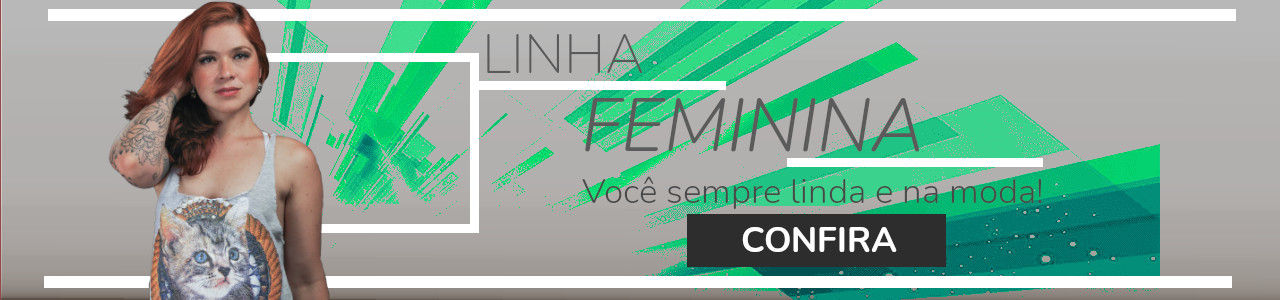
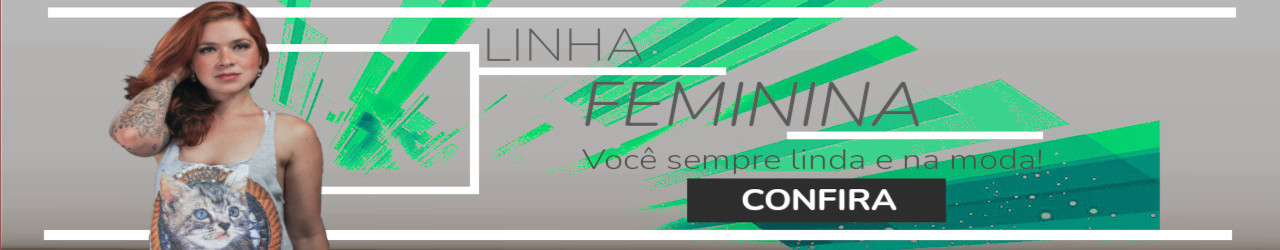
Styles, modal novo

diff --git a/index.html b/index.html
@@ -15,7 +15,7 @@
     <link rel="stylesheet" href="css/modal.css">
     <link rel="stylesheet" href="css/style.css">
 
-    <script src="javascript/javascript.js"></script>
+
 
     <title>Moda</title>
 
@@ -182,11 +182,11 @@
                         <span>NOME DA ROUPA <br>
                             VALOR: $
                         </span>
-                    </div>       
+                    </div>
                 </div>
             </div>
 
-         
+
 
             <div class="radius-model">
                 <div class="radius-modelo-0 radius-form-modelos" onclick="abrirModal('modal')"></div>
@@ -228,6 +228,7 @@
 
                 <div class="radius-modelo-4 radius-form-modelos" onclick="abrirModal('modal-4')"></div>
 
+
                 <div class="fundo_modal" id="modal-4">
                     <div class="modal">
                         <div class="radius-modelo-4 radius-modal-tamanho"></div>
@@ -235,6 +236,7 @@
                     </div>
                 </div>
             </div>
+
             <section class="block-imp-items">
                 <h2>IMPERDÍVEIS</h2>
                 <div class="block-categoria"></div>
@@ -245,6 +247,7 @@
                     <div class="imp-img-2 imp-img-form"></div>
                 </div>
             </section>
+
             <div class="sobre">
                 <div class="sobre-info">
                     <h3>Sobre</h3>
@@ -260,6 +263,7 @@
                 <div class="sobre-img"></div>
             </div>
     </main>
+
     <footer>
 
         <section class="newsletter">
@@ -301,6 +305,8 @@
     <script src="https://cdn.jsdelivr.net/npm/bootstrap@4.6.0/dist/js/bootstrap.min.js"
         integrity="sha384-+YQ4JLhjyBLPDQt//I+STsc9iw4uQqACwlvpslubQzn4u2UU2UFM80nGisd026JF"
         crossorigin="anonymous"></script>
+
+    <script src="javascript/javascript.js"></script>
 </body>
 
 </html>

diff --git a/css/style.css b/css/style.css
@@ -29,7 +29,9 @@ h2 {
 }
 
 h4 {
-    font-size: 1.3rem;
+    font-size: 1.1rem;
+    font-weight: 500;
+    line-height: 1.2;
 }
 
 .icon {
@@ -118,17 +120,23 @@ h4 {
 /* Carrousel */
 
 .carrosel-largura {
-    max-height: 500px;
+    max-height: 400px;
 }
 
 /* beneficios */
 
 .beneficios {  
-    padding-top: 1rem;
+    padding-top: 0.5rem;
     display: flex;
     justify-content: space-evenly;
     flex-wrap: wrap;
+    max-width: 1280px;
+    margin: 0 auto;
     
+}
+
+.text-bene p {
+    font-size: 0.8em;
 }
 
 .beneficios-item {
@@ -236,7 +244,7 @@ box-shadow: 5px 5px 13px 2px rgba(0,0,0,0.42);
     margin: 40px auto 10px;
     flex-wrap: wrap;
     max-width: 1280px;
-    height: 300px;
+    height: 250px;
 }
 
 /*                                      ROUPAS */
@@ -349,7 +357,7 @@ box-shadow: 5px 5px 13px 2px rgba(0,0,0,0.42);
 }
 
 .imp-img-0 {
-    background-image: url('../imagens/imperdivel/imperdeivel-0.jpeg');
+    background-image: url('../imagens/imperdivel/imperdeivel-new.jpeg');
 }
 
 .imp-img-1 {
@@ -363,7 +371,7 @@ box-shadow: 5px 5px 13px 2px rgba(0,0,0,0.42);
 /* RADIOS - MODEL */
 
 .radius-model {
-    background-color: #9e9c9c;
+    background-color: #ffffff;
     max-width: 1280px;
     margin: 0px auto;
     padding: 20px;
@@ -376,7 +384,6 @@ box-shadow: 5px 5px 13px 2px rgba(0,0,0,0.42);
 .radius-form-modelos {
     background-size: cover;
     background-position: center -3vh;   
-    border: 5px solid #ffffff;
     border-radius: 50%;
     width: 100px;
     height: 100px;
@@ -385,7 +392,8 @@ box-shadow: 5px 5px 13px 2px rgba(0,0,0,0.42);
 }
 
 .radius-modal-tamanho {
-
+    width: 100%;
+    height: 100%;
     background-size: cover;
     background-position: bottom ;
     background-repeat: no-repeat;

diff --git a/css/bootstrap.css b/css/bootstrap.css
@@ -68,12 +68,14 @@ hr:not([size]) {
   height: 1px;
 }
 
+/*
 h6, .h6, h5, .h5, h4, .h4, h3, .h3, h2, .h2, h1, .h1 {
   margin-top: 0;
   margin-bottom: 0.5rem;
   font-weight: 500;
   line-height: 1.2;
 }
+*/
 
 h1, .h1 {
   font-size: calc(1.375rem + 1.5vw);
@@ -119,10 +121,10 @@ h6, .h6 {
   font-size: 1rem;
 }
 
-p {
+/*p {
   margin-top: 0;
   margin-bottom: 1rem;
-}
+}*/
 
 abbr[title],
 abbr[data-bs-original-title] {

diff --git a/css/modal.css b/css/modal.css
@@ -41,8 +41,6 @@
     
 }
 
-
-
 .imagem-0 {
     background-image: url('../imagens/Modelo-0.jpeg');
     background-size: cover;
